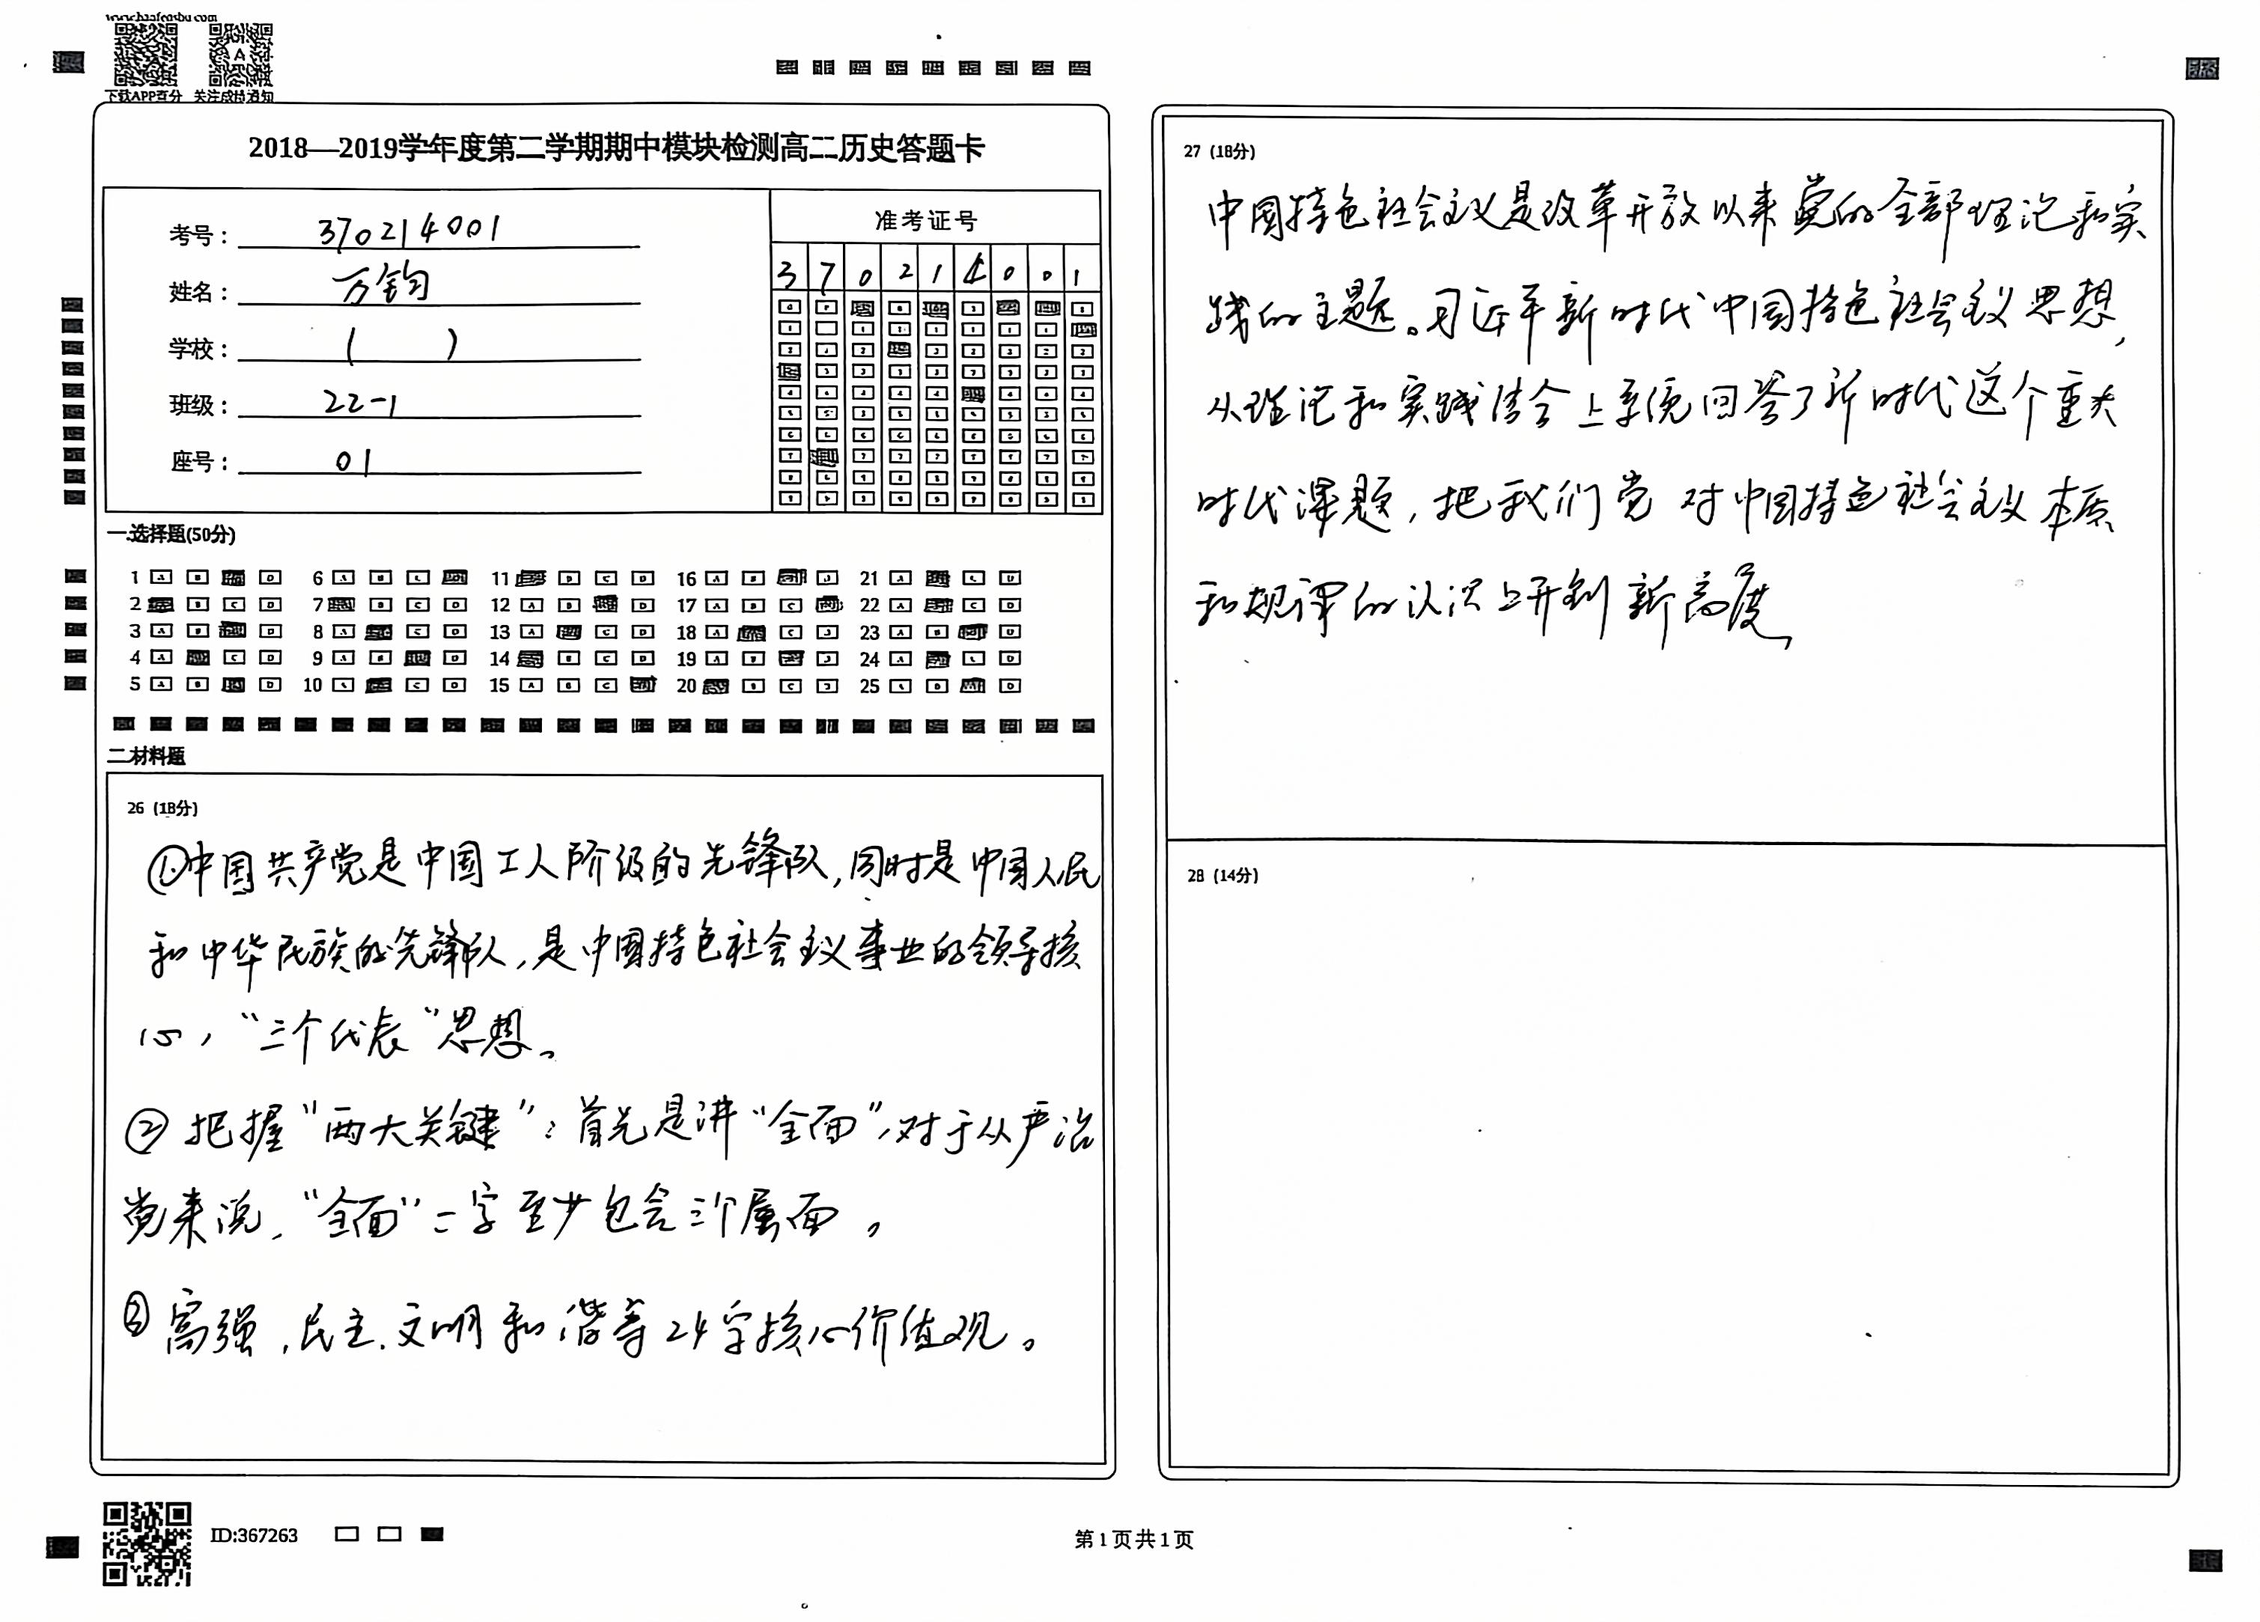
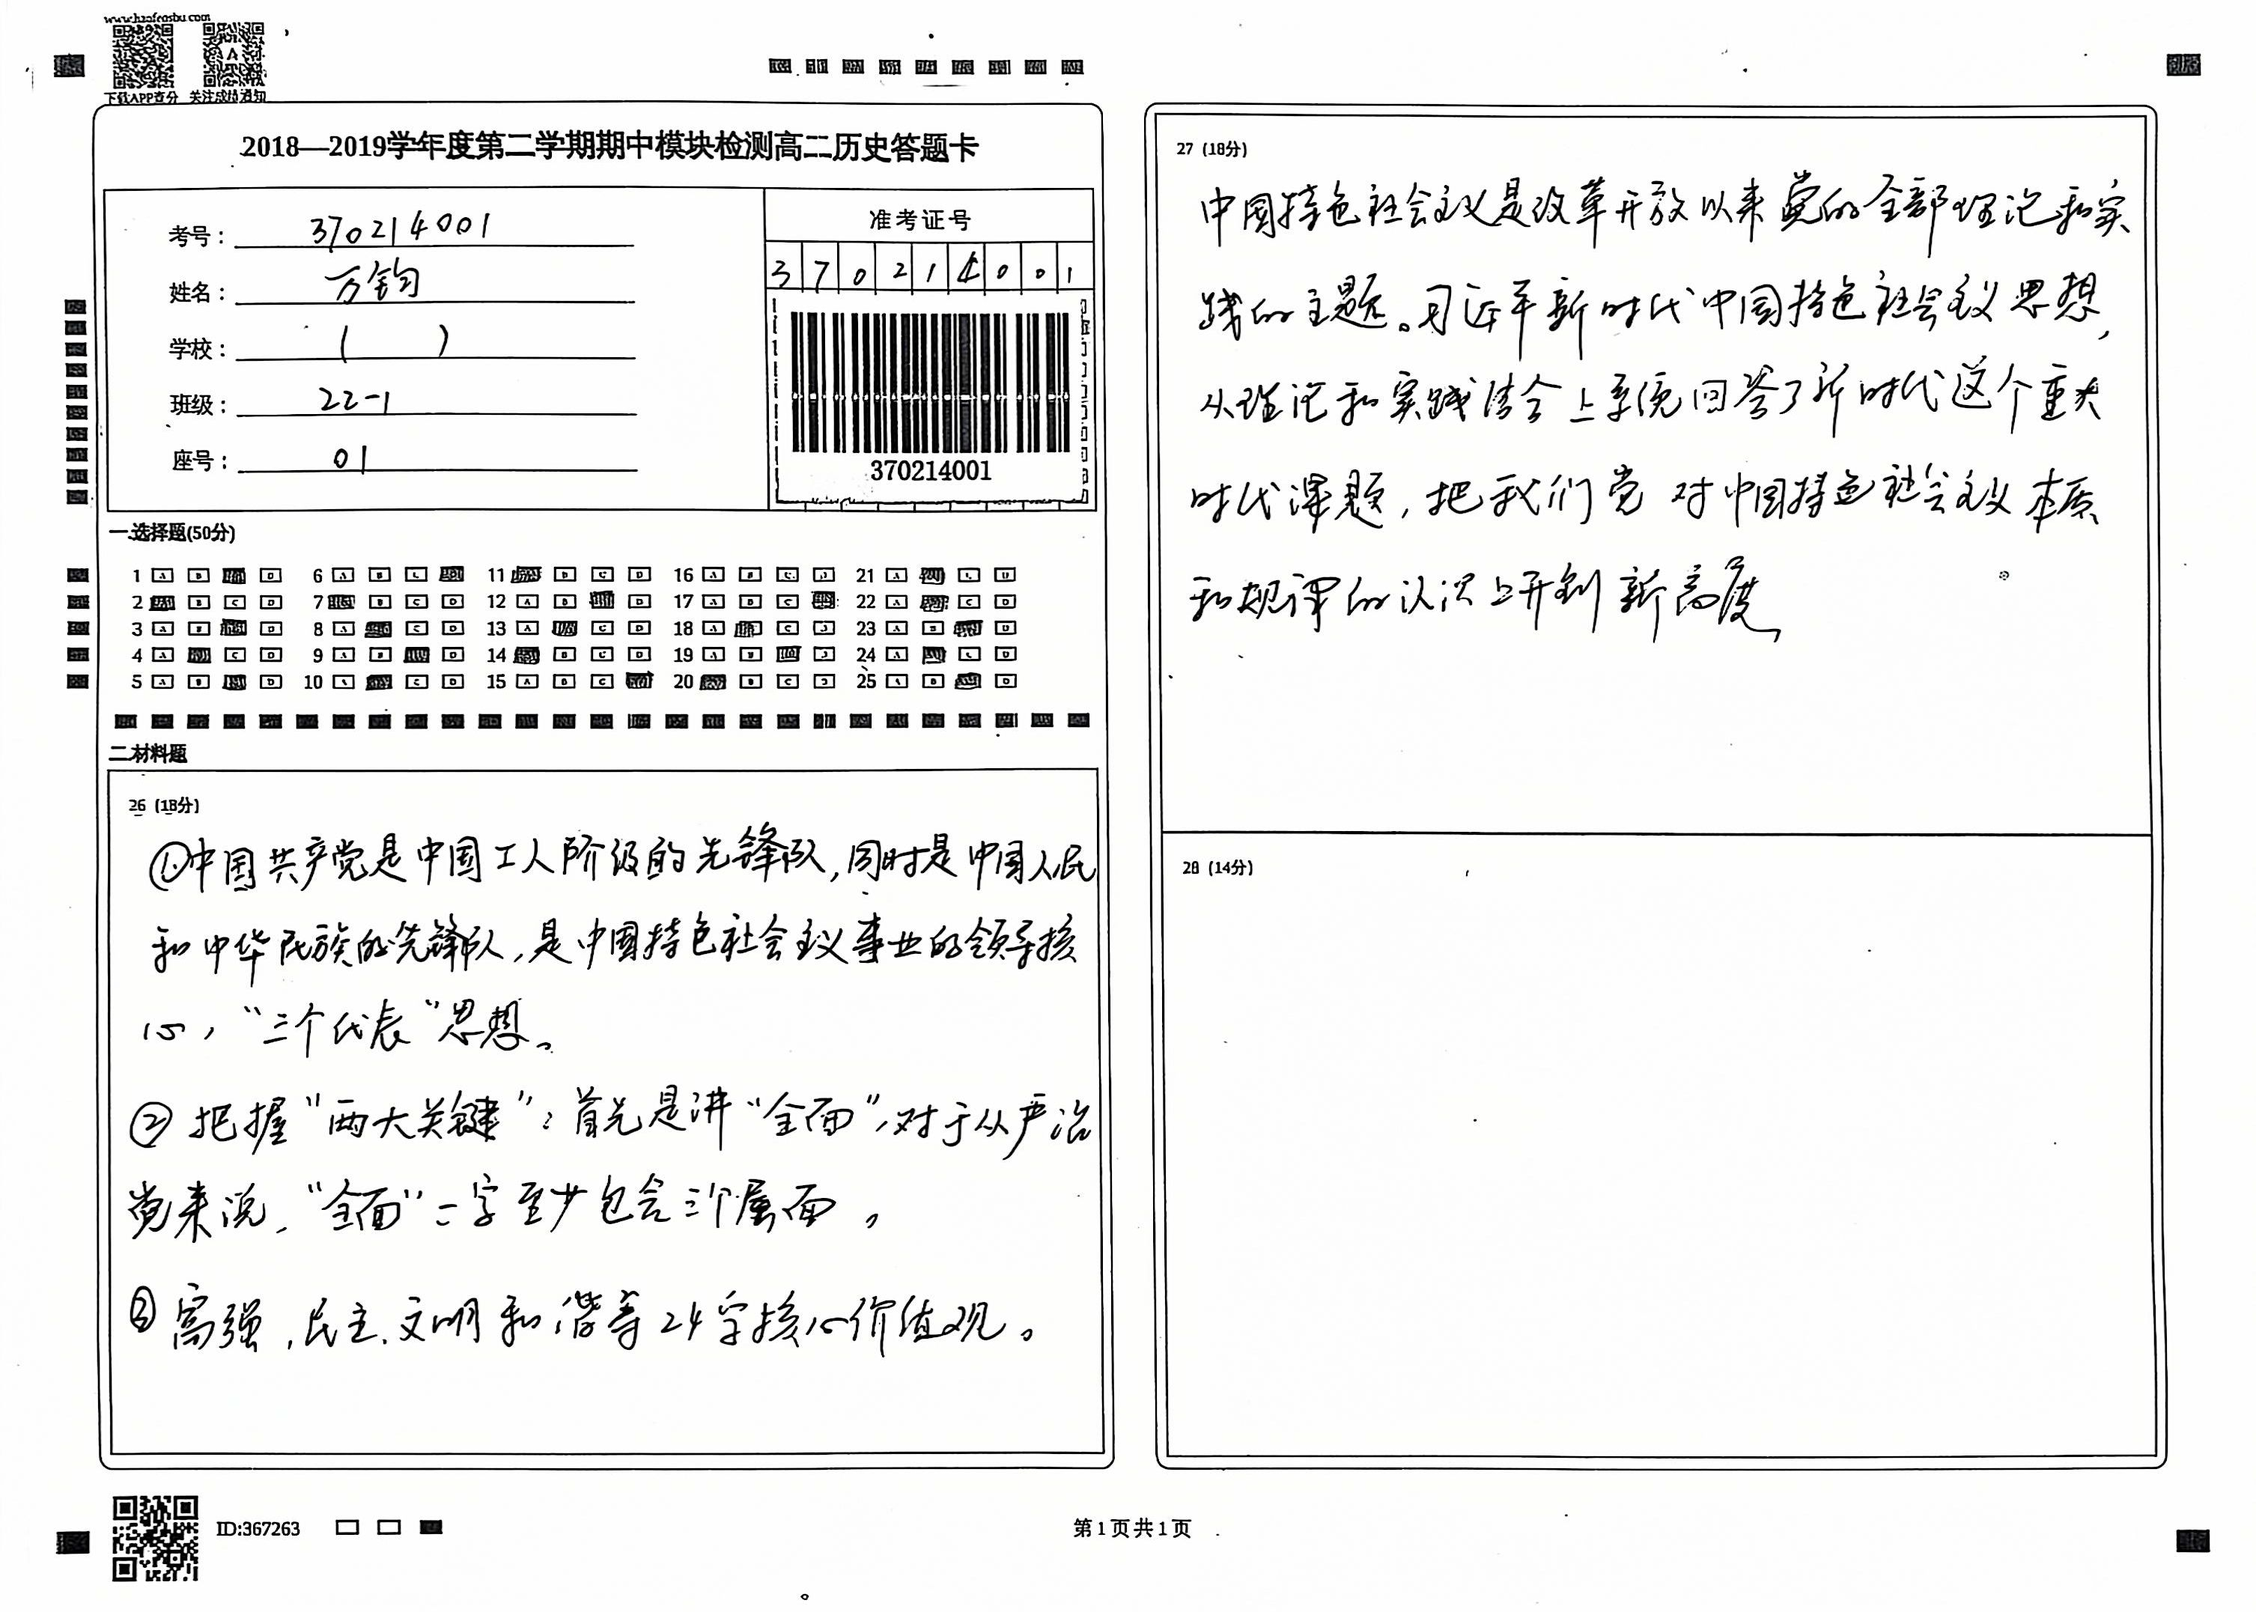
条形码扫描2024年11月24日21:56:37

diff --git a/identify_id.py b/identify_id.py
@@ -1,0 +1,102 @@
+import cv2
+import numpy as np
+from pyzbar.pyzbar import decode
+import glob
+
+drawing = False
+ix, iy = -1, -1
+roi_list = []
+
+def draw_rectangle(event, x, y, flags, param):
+    global ix, iy, drawing, roi_list, display_width, display_height, img
+
+    # 将显示坐标转换为原始图像坐标
+    x_orig = int(x * img.shape[1] / display_width)
+    y_orig = int(y * img.shape[0] / display_height)
+
+    if event == cv2.EVENT_LBUTTONDOWN:
+        drawing = True
+        ix, iy = x_orig, y_orig
+
+    elif event == cv2.EVENT_MOUSEMOVE:
+        if drawing:
+            img_copy = img.copy()
+            cv2.rectangle(img_copy, (ix, iy), (x_orig, y_orig), (0, 255, 0), 2)
+            resized_img = cv2.resize(img_copy, (display_width, display_height))
+            cv2.imshow('image', resized_img)
+
+    elif event == cv2.EVENT_LBUTTONUP:
+        drawing = False
+        cv2.rectangle(img, (ix, iy), (x_orig, y_orig), (0, 255, 0), 2)
+        roi_list.append((ix, iy, x_orig, y_orig))
+        resized_img = cv2.resize(img, (display_width, display_height))
+        cv2.imshow('image', resized_img)
+
+def update_display_size():
+    global display_width, display_height, img
+    _, _, w, h = cv2.getWindowImageRect('image')
+    aspect_ratio = img.shape[1] / img.shape[0]
+    if w / h > aspect_ratio:
+        display_height = h
+        display_width = int(h * aspect_ratio)
+    else:
+        display_width = w
+        display_height = int(w / aspect_ratio)
+    resized_img = cv2.resize(img, (display_width, display_height))
+    cv2.imshow('image', resized_img)
+
+def recognize_barcode(image, roi):
+    x1, y1, x2, y2 = roi
+    roi_img = image[y1:y2, x1:x2]
+    barcodes = decode(roi_img)
+    for barcode in barcodes:
+        if barcode.type == 'CODE128':
+            return barcode.data.decode('utf-8')
+    return "No CODE128 barcode found"
+
+def main():
+    global img, drawing, roi_list, display_width, display_height
+    img = cv2.imread('1_exc.jpg')
+    if img is None:
+        print("Error: Could not load image.")
+        return
+
+    drawing = False
+    roi_list = []
+
+    # 设置初始显示大小
+    display_width = 800
+    display_height = int(display_width * img.shape[0] / img.shape[1])
+
+    cv2.namedWindow('image', cv2.WINDOW_NORMAL)
+    cv2.setMouseCallback('image', draw_rectangle)
+
+    while True:
+        update_display_size()
+        key = cv2.waitKey(1) & 0xFF
+        if key == ord('q'):
+            break
+
+    cv2.destroyAllWindows()
+
+    if len(roi_list) == 0:
+        print("No ROI selected.")
+        return
+
+    # 识别1_exc.jpg中的条形码信息
+    barcode_info = recognize_barcode(img, roi_list[0])
+    print(f"1_exc.jpg中的准考证号为：{barcode_info}")
+
+    # 识别其他*_exc.jpg文件中的条形码信息
+    for file in glob.glob('*_exc.jpg'):
+        if file == '1_exc.jpg':
+            continue
+        img = cv2.imread(file)
+        if img is None:
+            print(f"Error: Could not load image {file}.")
+            continue
+        barcode_info = recognize_barcode(img, roi_list[0])
+        print(f"{file}中的准考证号为：{barcode_info}")
+
+if __name__ == "__main__":
+    main()

diff --git a/region.py b/region.py
@@ -59,7 +59,7 @@ def update_display_size():
 
 def main():
     global img, drawing, roi_list, display_width, display_height
-    img = cv2.imread('1.jpg')
+    img = cv2.imread('3.jpg')
     if img is None:
         print("Error: Could not load image.")
         return
@@ -114,7 +114,7 @@ def main():
 
         cropped_img = img[min_y:max_y, min_x:max_x]
         resized_img = cv2.resize(img, (4961,3508))
-        cv2.imwrite('1_exc.jpg', resized_img)
+        cv2.imwrite('3_exc.jpg', resized_img)
 
     cv2.namedWindow('Final Image', cv2.WINDOW_NORMAL)
     cv2.imshow('Final Image', img)
